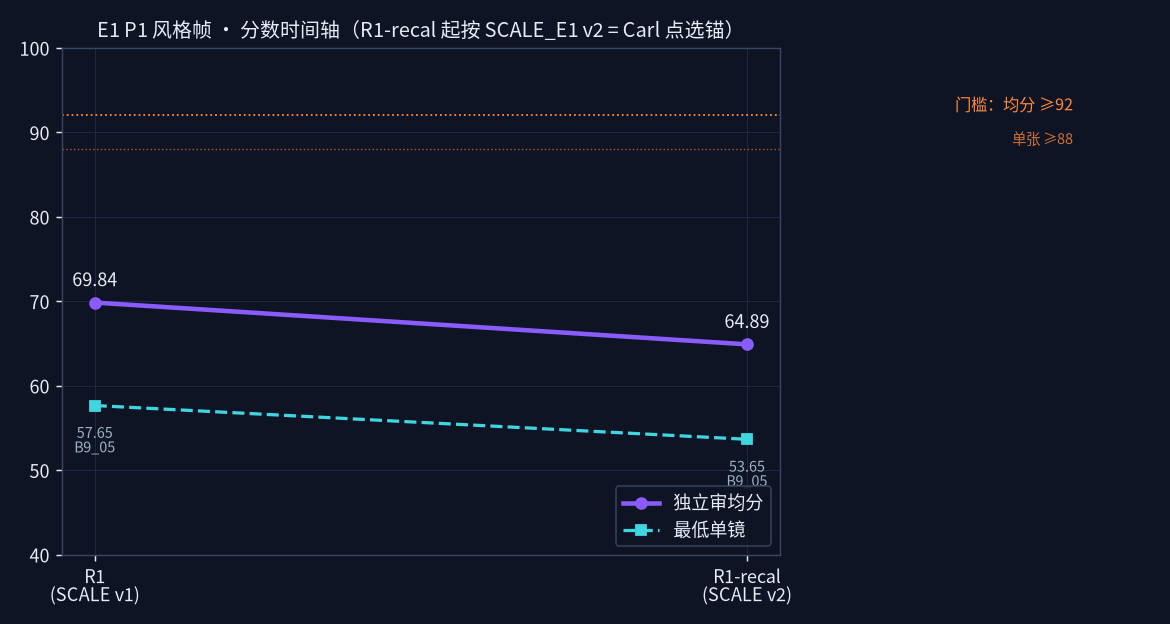
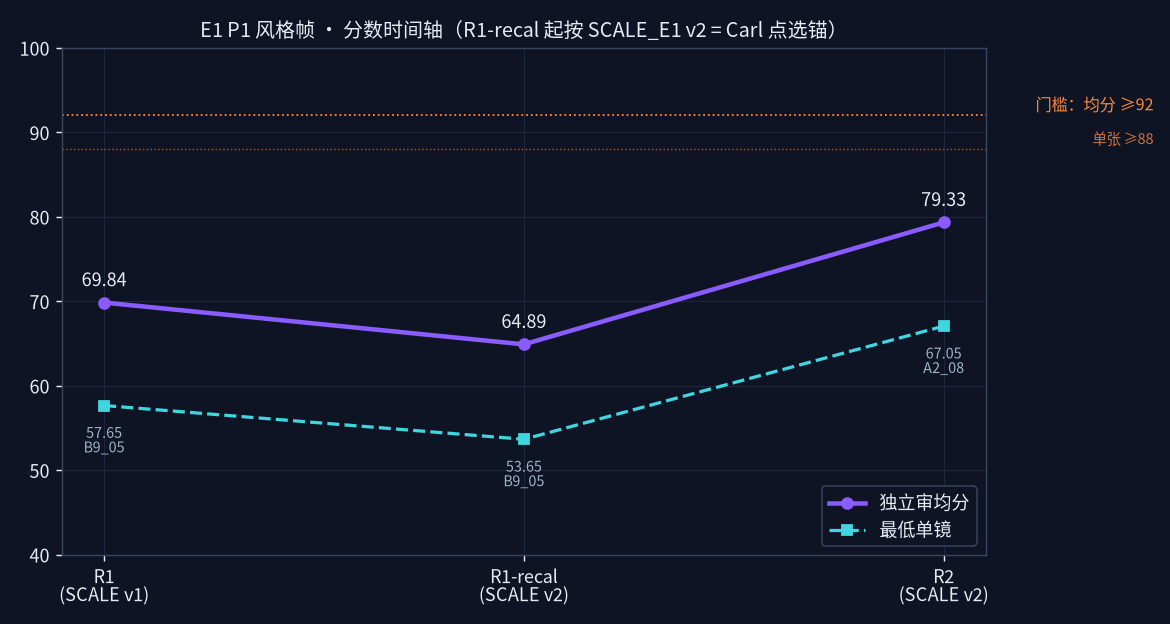
E1 P1 R2: 独立审 79.33（min A2_08 67.05），接触表、Carl 点选对比图、分数时间轴、花费

diff --git a/episodes/E1-euv-lithography/handoff/p1/REVIEW_round2_independent.md b/episodes/E1-euv-lithography/handoff/p1/REVIEW_round2_independent.md
@@ -1,0 +1,117 @@
+# E1 P1 第 2 轮风格帧 · 隔离独立审（SCALE_E1 v2）
+
+审稿方只用了本目录材料（SCALE_E1 v2、BRIEF、FACTS_CHECKLIST、refs/、frames/）。960×540 / 32 spp 的噪点不扣分；材质、构图、光比、信息清晰度照常严格。本项目自己的帧不当锚。
+
+**结论：加权均分 79.33，最低 A2_08 = 67.05；门槛（均分 ≥92 且单张 ≥88）未过，没有一张 ≥88。**
+
+## 分数表
+
+| 镜头 | A | B | C | D | E | F | 封顶 | 总分 |
+|---|---|---|---|---|---|---|---|---|
+| A0_10 | 76 | 82 | 84 | 70 | 80 | 82 | — | 79.30 |
+| A0_01 | 85 | 86 | 84 | 85 | 84 | 85 | — | 84.80 |
+| A0_02 | 88 | 85 | 80 | 55 | 84 | 86 | H2 | 79.90 |
+| A0_03 | 87 | 85 | 86 | 72 | 76 | 84 | — | 82.65 |
+| B1_10 | 80 | 86 | 86 | 80 | 80 | 84 | — | 83.00 |
+| B1_15 | 76 | 80 | 66 | 78 | 80 | 78 | — | 75.10 |
+| B3_02 | 75 | 82 | 76 | 74 | 82 | 80 | H13 | 77.60 |
+| B4_10 | 74 | 80 | 86 | 80 | 84 | 86 | — | 81.60 |
+| B5_01 | 75 | 82 | 78 | 74 | 74 | 76 | H13 | 76.70 |
+| C_03 | 75 | 82 | 78 | 80 | 76 | 72 | H13 | 77.20 |
+| B6_12 | 72 | 84 | 80 | 74 | 80 | 82 | — | 78.40 |
+| B1_22 | 84 | 86 | 80 | 76 | 80 | 84 | — | 81.70 |
+| A2_08 | 60 | 65 | 60 | 74 | 78 | 76 | H14 | 67.05 |
+| B9_05 | 82 | 88 | 88 | 82 | 86 | 86 | — | 85.40 |
+| B2_08 | 70 | 78 | 74 | 76 | 76 | 80 | — | 75.20 |
+| B4_07 | 80 | 86 | 88 | 82 | 84 | 86 | — | 84.50 |
+| B8_03 | 75 | 80 | 70 | 55 | 68 | 76 | H13, H2 | 70.95 |
+| B7_06 | 70 | 80 | 74 | 72 | 80 | 80 | H13 | 75.30 |
+| B1_08 | 78 | 82 | 80 | 80 | 82 | 82 | — | 80.40 |
+| D_07 | 92 | 86 | 82 | 74 | 74 | 80 | — | 82.30 |
+| A0_06 | 82 | 84 | 88 | 84 | 80 | 82 | — | 83.90 |
+| A2_03 | 70 | 68 | 75 | 78 | 86 | 90 | H14 | 76.75 |
+| B1_18 | 74 | 76 | 86 | 80 | 86 | 86 | — | 81.20 |
+| B8_17 | 78 | 84 | 86 | 82 | 82 | 86 | — | 83.10 |
+| **均分** | | | | | | | | **79.33** |
+
+总分 = Σ(维度×权重)/100，权重 A20 B15 C25 D15 E10 F15，封顶已先套到维度分上。
+
+## 逐镜
+
+**A0_10 片名卡（79.30）** 画面：冷灰棚里一台白框去壳整机，左边是卧式光源罐，中部和右部有紫色光路，前景两个深灰洁净服人形，上方是白色细衬线中文片名加英文副题；三帧之间只有轻微推近。封顶：无（剖视密度接近 H13 线）。Carl 点选 k1C + k2A + k9B。离锚还差：k1C 是粗衬线短句压在高密度机械全景上，这里的片名字重太细、没有冲击力，机内只是方盒和管线拼的，光路也短。改法：①片名换 Noto Serif Bold，加大到画面宽的 60 %，紫色下划线保留；②机内模块密度翻倍（真空法兰、线缆束、镜座支架），光路从光源一路贯穿到晶圆层；③加一个慢速横移或灯光逐区点亮，让 D 不像静帧。
+
+**A0_01 冷开场锡滴（84.80）** 画面：橙激光打在锡滴上，中帧锡滴被拍成带水花的深色薄饼，末帧是白紫等离子体加圆形放大框里的 Sn⁸⁺–Sn¹⁴⁺。封顶：无。Carl 点选 k3A + k3D。离锚还差：腔体只是虚焦的弧线，不是 k3A 那种实打实的金属光源腔；薄饼像深色玻璃片（A −）。改法：①背景换成看得清的拉丝金属腔壁、法兰和收集镜边缘；②薄饼改成液态金属银色高光、边缘破碎成雾；③放大框里 Sn⁸⁺ 的标签被原子球挡住，标签移到原子旁边。
+
+**A0_02 货机纪实（79.90）** 画面：夜间湿机坪上一架机头掀开的货机，正在装白色铝框箱，右上有标注卡「2023 年 12 月 · 首台 High-NA EUV 发货」。封顶：H2（三帧几乎一样）。Carl 点选 k8A。离锚还差：质感已经接近 k8A，但这是一张静帧。改法：①加慢推镜或平台升降、地勤走动这类视差运动；②确认机身上没有任何航司字样（现在是干净的）。
+
+**A0_03 数量链（82.65）** 画面：一排白色铝框箱延伸向机坪，背景是货机和卡车，左上逐级出现 250+ / 43 / 几架 / 20 的计数卡。封顶：无。Carl 点选 k7A + k8A。离锚还差：数字没有压在对应实物上，而是堆成左上一列 4 行（规范是右上 ≤3 行）。改法：①每个数字用引线落到实物上（箱子、集装箱、货机、卡车）；②集装箱这一环画面里看不到，补一排集装箱；③镜头随数字从箱子摇到卡车。
+
+**B1_10 预脉冲（83.00）** 画面：激光打锡滴，圆形放大框里侧视薄饼从 25 μm 长到 300 μm，Macro 层的薄饼溅开。封顶：无。Carl 点选 k3A + k3D。离锚还差：薄饼的质感偏玻璃/塑料，腔体还是虚焦弧线。改法：①薄饼改成液态锡银灰高光；②第 1 帧的「薄饼 ≈25 μm」读起来像数据错了，计数器在形变开始前先隐藏；③放大框里两个「25 μm」重复，删掉一个。
+
+**B1_15 暴力与温柔（75.10）** 画面：一团等离子体四溅橙白碎屑，旁边是金属环和一个蓝色圆窗。封顶：无。Carl 点选 k3A。离锚还差：「原子级精度的镜面」画面里认不出来，蓝色圆窗来历不明。改法：①同一画面放进收集镜的一角，镜面要光洁、反出等离子体；②去掉蓝色窗；③碎屑减半，留一处慢动作。
+
+**B3_02 收集镜登场（77.60）** 画面：金色背衬的圆盘收集镜，周围是环框和几根杆，一束橙色激光穿过中心孔，标注「中心孔」「第一焦点」。封顶：H13（A ≤ 75）。Carl 点选 k3A + k2B。离锚还差：镜子是一圈环加几根杆，没有腔体、支撑结构和冷却管；EUV 反射锥和中间焦点都没画。改法：①收集镜做成厚重的椭球壳，带冷却水道、安装法兰和真空腔壁；②画出紫色反射光锥会聚到 IF，并标注「中间焦点」；③激光束细一些，现在像实心塑料棒。
+
+**B4_10 地月高尔夫（81.60）** 画面：地球射出激光到月球，末帧是月面上的高尔夫球，三处都有标注。封顶：无。Carl 点选 k7A。离锚还差：地球贴图低清，大陆是一块平涂米色，远不如 k7A 的写实地球。改法：①地球换高清卫星贴图，加大气散射和夜间灯光；②月面加凹坑法线细节；③地月之间加一次快速拉远，让尺度感更强。
+
+**B5_01 照明系统（76.70）** 画面：去壳的照明模块，背板上是方盒、管线和橙蓝线缆，紫光在几个环形镜座之间折返；末帧标出场分面镜、光瞳分面镜、聚光镜。封顶：H13。Carl 点选 k2B + k4A。离锚还差：镜子读出来是空心圆环或带孔的碟，看不出镜面；背板是一面平墙贴的盒子；章节标题压在光路上。改法：①每个反射点换成实心抛光镜加镜座，光正好落在镜面上；②场分面镜做成可见的弧形小镜阵列，光瞳分面镜上出现圆环或两极的光斑；③章节字卡单独出现，不要叠在光路上。
+
+**C_03 一镜到底（77.20）** 画面：从 IF 锥口出来，经照明模块到掩模，再进投影光路，标注 IF、照明系统、掩模。封顶：H13。Carl 点选 k2B + k4A。离锚还差：同 B5_01，镜子是圆环；掩模处的入射角画成大约 35–40°，标注却写「约 6° 斜入射」，画面和数据矛盾（F −）；左上「可动分面镜·示意」半透明标签和别的元素叠在一起。改法：①掩模入射光改成接近竖直的 6° 小角，入射光和反射光分开；②镜子换成实心镜；③BRIEF 要求的「扫描光带扫过、墙变成幽灵玻璃」在 3 帧里看不到，补上这次转场。
+
+**B6_12 pellicle（78.40）** 画面：冷灰棚里，掩模上方架着一个透明框，标注「保护膜 pellicle」「膜厚 13 nm」「间距（示意）」。封顶：无。Carl 点选 k5A。离锚还差：膜读成一块厚玻璃托盘，不是 k5A 那种极薄、微透、带黑色边框、有掠射高光的薄膜；中帧和末帧有明显的黑白噪点块（渲染火萤）。改法：①膜改成零厚度的半透明面，加一道掠射高光，框改成细的深色金属框；②清掉火萤（钳制间接光）；③掩模表面加吸收层图形，让人看出图形面在下面。
+
+**B1_22 TRUMPF 激光（81.70）** 画面：一排带翅片的银色放大器管，橙色光在里面穿行，上方是种子→放大 1–4 的功率链，标注「示意·非真实结构」。封顶：无。Carl 点选 k3A。离锚还差：金属质感不错，但 BRIEF 要的「蓝图线稿逐笔画出放大链」没有实现，两个标注块（左上功率链、右上标题）分散了视线。改法：①把功率链做成蓝图线稿叠在管子上，逐级点亮；②两个标注块合成一个；③加一点楼板、华夫板的环境，交代激光器在楼下。
+
+**A2_08 13.5 停顿（67.05，最低）** 画面：纯深色底上，一条紫色波越来越密，一条灰色正弦波，周围飘着几个方块、短线和青色圆点。封顶：H14（7C 纯深底极简线框）。Carl 点选：标注层应叠在 Macro 上（k7A）。离锚还差：这正是 Carl 不要的 7C 家族，飘着的方块和短线没有含义。改法：①把波形叠在实物上，例如投影镜或晶圆上方，背景换成虚焦的机内环境；②删掉随机方块和短线；③193 和 13.5 两条波上下排开，长度对应同一段距离，让观众数得出「短 14 倍」。
+
+**B9_05 光子雨（85.40，最高）** 画面：晶圆上的光刻胶线条，紫色光子雨落下，圆形放大框里是每格 1 nm² 的计数格，中心格从 3 数到 20。封顶：无。Carl 点选 k6D。离锚还差：Macro 层的晶圆线条是平的灰紫塑料感，缺少材质；随机缺陷（线边粗糙）还没出现。改法：①线条加光刻胶的半透明质感和边缘粗糙；②末帧在放大框里显示线边起伏或断线；③光子拖尾再短一些。
+
+**B2_08 氢自由基清洗（75.20）** 画面：暗色腔体里飘满白色颗粒，一个金属环，放大框里 H· 把表面的锡拎走变成 SnH₄。封顶：无（放大框成立，所以不算 H15）。Carl 点选 k3D + k3A。离锚还差：放大框的引线落在空中，看不到收集镜表面这个宏观锚；满屏白点像雪花，分散注意力；同一条化学式在右上和画面中各出现一次。改法：①引线落到收集镜的镜面上，镜面要占画面三分之一；②白点改成淡紫色的氢等离子辉光；③化学式只留一处。
+
+**B4_07 多层膜尺度跃迁（84.50）** 画面：切开一角的反射镜，紫色光束打在镜面上，放大框里是灰阶电镜截面，约 40 对层，带刻度，标注「钼/硅 × 40 对 · 电镜截面（示意）」。封顶：无。Carl 点选 k4D + k4A。离锚还差：镜体是深蓝哑光塑料感（A −），光束是六棱实心棒；首帧右侧有火萤噪点。改法：①镜面改成抛光金属基底，带环境反射；②光束改成体积光；③清掉火萤。
+
+**B8_03 双台扫描（70.95）** 画面：去壳的投影仓里有十几道交叉的紫光，上方是掩模台，下方是晶圆台，标注掩模台 8×、反射式掩模、狭缝光斑、晶圆台 1×。封顶：H13、H2。Carl 点选 k2B + k4A。离锚还差：BRIEF 要「白模去掉一切干扰」，实际画面信息最乱；两张台子的反向运动在三帧里几乎看不出来；第一帧左边有残影叠字。改法：①去掉投影仓里的交叉光束，只留一束窄光带；②两张台子放大到画面的主体，掩模台行程画成晶圆台的 8 倍，三帧位置要有明显变化；③标注从 5 块减到 3 块，修掉残影字。
+
+**B7_06 投影物镜转台（75.30）** 画面：转台上一个开着前盖的白柜子，里面是紫色光路，旁边是灰色「人 ≈ 1.8 m」人形。封顶：H13。Carl 点选 k2A + k9B。离锚还差：柜子是白色方盒，人形像灰色橡皮玩偶，跟 k2A 的棚拍产品光比和 k9B 的真实人物尺度差得远。改法：①物镜外壳做出铸件筋、法兰、接口和线缆，用 2A 棚拍布光（轮廓光加柔光顶灯）；②人换成洁净服人物剪影；③柜里的六面镜只露 2–3 面，减少乱线。
+
+**B1_08 锡滴瞄准（80.40）** 画面：一串锡滴飞过一个圆窗，青色 HUD 圆环逐颗锁定。封顶：无。Carl 点选 k3A + 标注层。离锚还差：背景是平的蓝灰板和一个米色方块，不像光源腔。改法：①背景换成金属腔内壁和相机窗口；②去掉米色方块；③HUD 加上坐标读数和瞄准十字。
+
+**D_07 人与机器（82.30）** 画面：照片级冷白洁净室，左边一排设备，两个洁净服人从背后走向黄光区。封顶：无。Carl 点选 k8C + k9A。离锚还差：材质已经到锚的水平，但右上标注「各地区数量据 ASML 2025 年报；地区内位置为示意」是 A0_06 地图镜头的说明，搬到这里不对；BRIEF 要的「灯光一亮」没有发生。改法：①标注只留「5100 家供应商」；②加一次灯光从暗到亮的变化；③确认设备上没有任何厂商标志。
+
+**A0_06 供应商地球（83.90）** 画面：玻璃质感地球，以荷兰为中心飞出光弧，左边计数器从 957 数到 5,100。封顶：无。Carl 点选 k7A。离锚还差：大部分光点挤在欧洲一处，全球网络感不够；纯黑底比 k7A 的灰棚空。改法：①光点按地区数量铺到美洲和亚洲；②背景改成深灰棚加地面反射；③计数卡移到右上。
+
+**A2_03 公式卡（76.75）** 画面：深色面板上排出 CD = k₁·λ/NA，每一项有中文名和颜色，下方有「λ 变短 → 线条更细」的小示意和「k₁ 物理极限 0.25」，背景是虚焦的紫色胶囊和青色圆点。封顶：H14（纯深底整屏排版）。Carl 点选 k7A。离锚还差：公式本身写得对、配色也对，但整屏是排版加抽象光斑，没有实物。改法：①背景换成虚焦的投影物镜或晶圆，公式各项用引线指向实物（λ 指向紫光，NA 指向镜子的收光锥）；②去掉胶囊光斑。
+
+**B1_18 锡离子谱线（81.20）** 画面：半透明面板上的谱线柱状图逐渐堆成 13.5 nm 处的峰，青色带标出「镜子反射窗口 ±1 %」，右侧列出 Sn⁸⁺–Sn¹⁴⁺。封顶：无。Carl 点选 k3A + 标注层。离锚还差：面板占了画面的 70 %，后面的光源腔认不出来。改法：①面板缩小，背景换成清晰的光源腔，谱线从等离子体里「流」出来再堆峰；②离子列表跟着谱线颜色对应。
+
+**B8_17 晶圆计数（83.10）** 画面：白色工件台上的晶圆，场格逐个点亮，右边是一摞晶圆，计数器显示 188 场/片、185+ 片/小时、3.4 万+ 次曝光/小时。封顶：无。Carl 点选 k7A + k6D。离锚还差：白色模块是平的塑料白，晶圆是均匀的紫色。改法：①模块加金属边、接缝和 2A 棚光；②晶圆加真实的硅面反射，曝光过的场才变色；③第 3 张计数卡挡住了晶圆摞，往左移。
+
+## 2B 剖视镜头专段（A0_10、B5_01、C_03、B3_02、B8_03、B7_06）
+
+和 k2B / k4A 比，这组的共同差距有五条：
+1. **镜子不是镜子**：k4A 的每个拐点都是一面带厚度、带金属镜座的抛光镜。我们的拐点大多是空心圆环、带孔的碟或环形线框，光看起来像在环里拐弯，接近 H8 的「光在非镜处拐弯」。这一条最致命。
+2. **结构密度是贴墙的，不是有纵深的**：k2B 有多层前后遮挡，有电气柜、线缆束、气管、铸件、真空腔壁。我们是一面平背板贴满方盒和圆柱，没有前景遮挡、没有腔壁剖面厚度，所以读成「方盒子拼贴」。
+3. **光束是实心棒**：k2B / k4A 的紫光是半透明体积光束，光锥逐渐收窄，在镜面留下光斑。我们的光束粗细不变、表面不透光，像发光塑料管。
+4. **太乱或太空**：B8_03 和 B7_06 是十几道交叉光，读不出顺序；B3_02 又只有一个环加几根杆。k4A 的做法是一条光路配几面镜子，有节奏，背景安静。
+5. **剖切面没有交代**：k2B 的剖切面有被切开的壳体厚度和颜色差。我们的柜子只是去掉前盖的白框，看不出「切开」。
+
+下一轮 2B 的硬指标建议：每个反射点都是实心镜加镜座；光束用体积光，会聚处有光斑；至少 3 层前后景深；剖切面有壳厚；每屏只讲一条光路，镜子不超过 6 面。
+
+## 前 5 个全局差距
+
+1. **2B 剖视做成环形镜加方盒拼贴**（6 镜，H13 封顶）：A 维的主要失分来源。
+2. **标注层落成了纯深底整屏**（A2_08、A2_03；B1_18 接近）：Carl 明确不要的 7C 家族，H14 封顶。
+3. **静帧和几乎不动**（A0_02、B8_03 命中 H2；A0_10、A0_03、D_07 的运动也很弱）：D 维普遍在 70 档。
+4. **材质塑料感，渲染有火萤**：白色模块是平的塑料白，镜体是哑光深蓝，pellicle 像厚玻璃，光束是实心棒，B6_12 / B4_07 有噪点块。
+5. **标注规范和数据一致性**：标注不在右上或超过 3 行（A0_03、B8_03、B5_01），同一句话标两遍（B2_08），标注搬错镜头（D_07），掩模画面角度和「6°」对不上（C_03），计数器起点读成错数（B1_10）。
+
+## 下一轮改法顺序（按每分投入的收益排）
+
+1. **把 A2_08 和 A2_03 改成「标注叠在实物上」**：去掉 H14 封顶，每镜预计 +8 到 +10，改动最便宜。
+2. **2B 镜路共用资产重做**：一次做好实心镜加镜座、体积光束、有纵深的背板，同时惠及 B5_01、C_03、B8_03、B7_06、B3_02、A0_10 六镜，解除 H13 后每镜约 +3 到 +6。同时修 C_03 的 6° 角。
+3. **B8_03 重构成只看两张台子**：去交叉光束，两台反向运动加 8:1 行程，解除 H2，预计 +10。
+4. **给静帧加运动**：A0_02、A0_10、D_07 加推镜或灯光变化，A0_03 让数字随镜头落到实物上。
+5. **材质和渲染清理**：pellicle 改成薄膜，镜体改成抛光金属，白模块加细节，清掉火萤；B7_06 的人形换成洁净服剪影。
+6. **标注规范统一清扫**：右上、≤3 行，不重复，不搬错镜头。
+
+按以上顺序改完，估计均分能到 86–88。要上 92，还要让 2B 剖视的密度真正接近 k2B，并让每一镜的 A 维到 90 以上。

diff --git a/episodes/E1-euv-lithography/handoff/E1_SPEND.md b/episodes/E1-euv-lithography/handoff/E1_SPEND.md
@@ -6,5 +6,7 @@
 |---|---|---|---|---|---|---|
 | 2026-10-23 | P1 第 1 轮风格帧（18 个 3D 镜头 × 3 帧，sample） | RunPod A40 Secure `li78fx244uzcxo`（CA-MTL-1 + 卷 eigenlens-cache），$0.59/h | 01:47:31–01:51:55，4.4 min | 0.04 | 一次 3 个 Blender 进程；54 帧全部拉回 | 是（DELETE 204，GET /pods = []） |
 | 2026-10-23 | 审美校准选图包 v1 mock-up（6 张，medium，1536×1024） | image2（gpt-image-2） | 02:13–02:17 | 0.23 | 按返回 usage 估算；明细 `/workspace/e1work/calib/costs_image2.jsonl` | 不适用（无 GPU） |
+| 2026-10-23 | P1 第 2 轮纪实底板（3 张：A0_02 夜间货机、A0_03 铝框箱 + 货机 + 卡车、D_07 冷白洁净室；high，1536×1024） | image2（gpt-image-2） | 约 09:20 | 0.11 | 按返回 usage 估算；明细 `/workspace/e1work/p1/plates/costs_image2_r2.jsonl`，提示词 `p1/plates/` | 不适用（无 GPU） |
+| 2026-10-23 | P1 第 2 轮风格帧（24 镜 × 3 帧，960×540 Cycles 32 spp） | RunPod A40 Secure `o3yiwzo8jqpi1m`（CA-MTL-1 + 卷 eigenlens-cache），$0.59/h | 09:34:29–09:38:58，4.5 min | 0.04 | 一次 4 个 Blender 进程；72 帧拉回（B7_06 因脚本 KeyError 在 box CPU 上补渲 3 帧，$0） | 是（DELETE 204，GET /pods = []，事后再查仍为 []） |
 
-**累计：$0.27 / $60；今日（10-23）：$0.27 / $25**。GPU $0.04，image2 $0.23，Wan $0。
+**累计：$0.42 / $60；今日（10-23）：$0.42 / $25**。GPU $0.08，image2 $0.34，Wan $0。本轮（P1 第 2 轮）：GPU $0.04（上限 $2）、image2 $0.11（上限 $6）。

diff --git a/episodes/E1-euv-lithography/handoff/p1/WORK_ORDER.md b/episodes/E1-euv-lithography/handoff/p1/WORK_ORDER.md
@@ -47,6 +47,7 @@
 |---|---|---|---|---|---|
 | R1 | 10-23 01:47–02:06 | 69.84 | 57.65（B9_05） | 未过；8 镜命中封顶（H1×6、H4×2、H5、H6×3） | GPU $0.04 |
 | R1-recal | 10-23（SCALE_E1 v2 重打同一批帧） | 64.89 | 53.65（B9_05） | 换成 Carl 点选锚后下调 4.95；H13×5、H14×8、H15×2 | 0 |
+| R2 | 10-23 09:34–09:50 | **79.33**（24 镜，含 A0_10） | 67.05（A2_08） | 未过（无一张 ≥88；最高 B9_05 85.4）；H13×5（B3_02 B5_01 C_03 B8_03 B7_06）、H14×2（A2_08 A2_03）、H2×2（A0_02 B8_03）；C_03 掩模入射角画成 35–40° 与「约 6°」标注不符。第 3 轮改法见 `REVIEW_round2_independent.md` 末节 | GPU $0.04 + image2 $0.11 |
 
 ## 第 2 轮工单（2026-10-23 改写：按 SCALE_E1 v2 + Carl 点选 `1C 2A+B 3A+D 4A+D 5A 6C+D 7A 8A+C 9A+B`）
 
